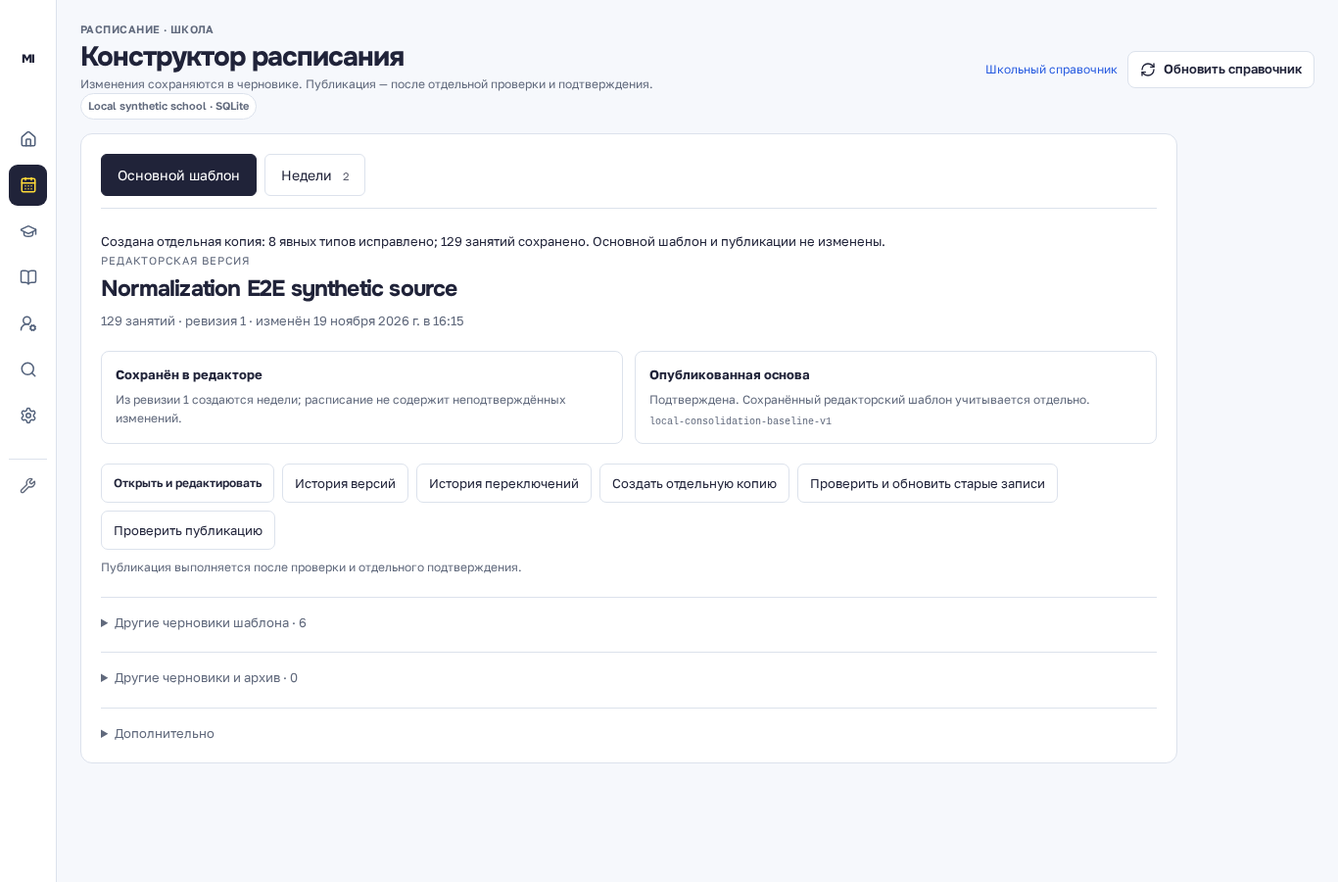
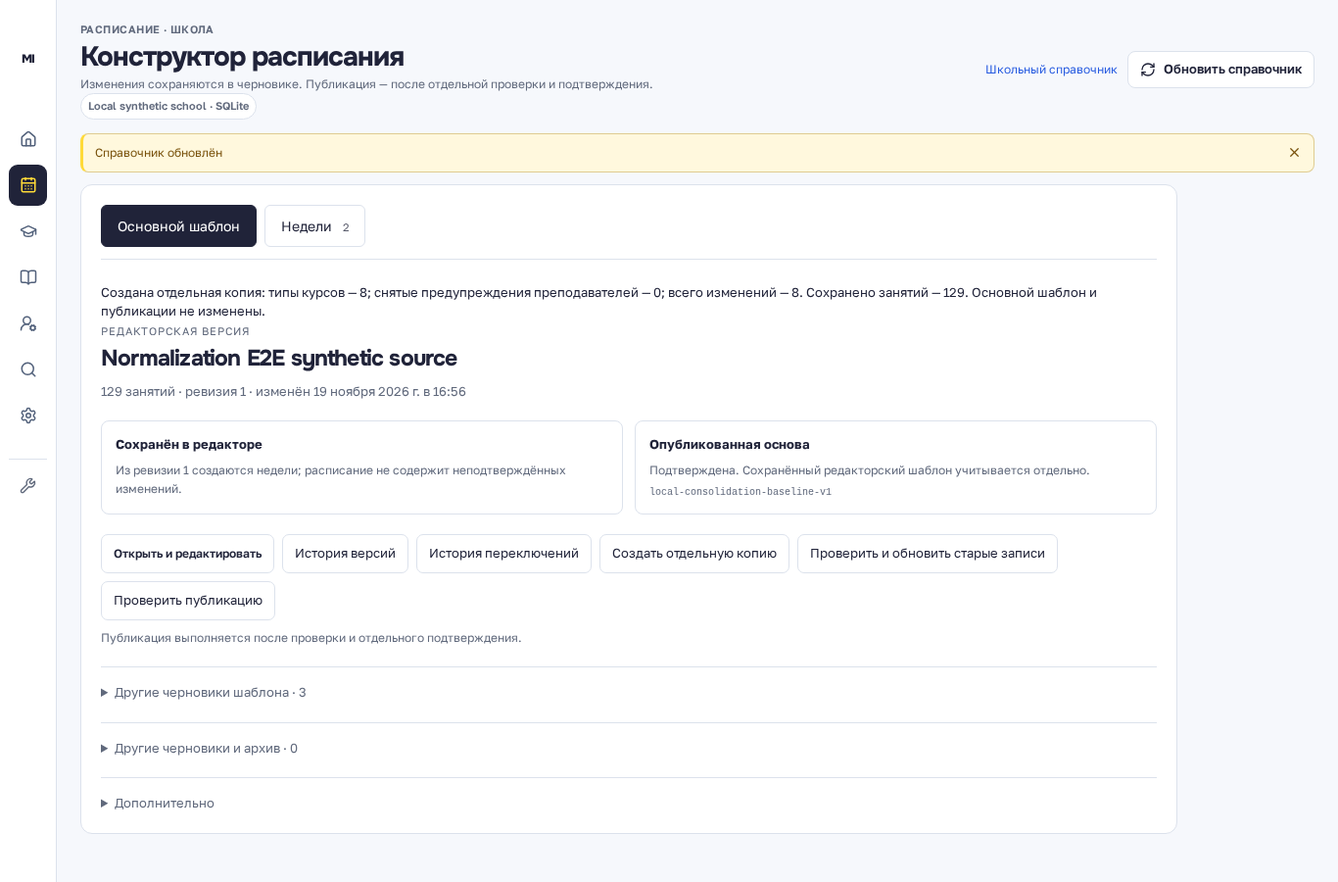
Preserve decision history in normalized copies

diff --git a/components/constructor-school-start.tsx b/components/constructor-school-start.tsx
@@ -26,7 +26,7 @@ type SelectionPreview = {
   baseline_recovery_required?: boolean;
   baseline_recovery?: { draft_id: string; revision: number; payload_hash: string; missing_revision: number; missing_payload_hash: string; contents: SelectionPreview['added']; problems: SelectionPreview['problems'] } | null;
 };
-type NormalizationPreview = { source_id: string; source_name: string; source_revision: number; source_hash: string; plan_hash: string; lesson_count: number; automatic_count: number; already_current_count: number; unchanged_count: number; unclassified_count: number; manual_count: number; real_conflict_count: number | null; retained_warning_count: number; retained_warnings: { reason: string; count: number; examples: { lesson_id: string; subject: string }[] }[]; changes: { lesson_id: string; field?: string; before: string; after: string; block_id?: string; reason: string }[]; manual: { lesson_id: string; reason: string }[]; notes: string[] };
+type NormalizationPreview = { source_id: string; source_name: string; source_revision: number; source_hash: string; plan_hash: string; lesson_count: number; automatic_count: number; activity_type_change_count: number; teacher_warning_clear_count: number; already_current_count: number; unchanged_count: number; unclassified_count: number; manual_count: number; real_conflict_count: number | null; retained_warning_count: number; retained_warnings: { reason: string; count: number; examples: { lesson_id: string; subject: string }[] }[]; changes: { lesson_id: string; field?: string; before: string; after: string; block_id?: string; reason: string }[]; manual: { lesson_id: string; reason: string }[]; notes: string[] };
 
 export function nearestMonday(today = new Date()) {
   const date = new Date(today.getFullYear(), today.getMonth(), today.getDate());
@@ -124,8 +124,8 @@ export function ConstructorSchoolStart({ api, drafts, index, hiddenIds, readOnly
     if (!window.confirm(`Создать отдельную копию из ${normalizationPreview.source_name}? Исходный шаблон, публикации и основной выбор останутся без изменений.`)) return;
     setNormalizationBusy(true); setNormalizationError('');
     try {
-      const copy = await api<{ id: string; changed_count: number; lesson_count: number }>(`/api/admin/schedule/experiments/school/${encodeURIComponent(normalizationPreview.source_id)}/normalization-copy`, { method: 'POST', body: JSON.stringify({ expected_revision: normalizationPreview.source_revision, expected_source_hash: normalizationPreview.source_hash, expected_plan_hash: normalizationPreview.plan_hash }) });
-      setNormalizationPreview(null); setMessage(`Создана отдельная копия: ${copy.changed_count} явных типов исправлено; ${copy.lesson_count} занятий сохранено. Основной шаблон и публикации не изменены.`);
+      const copy = await api<{ id: string; changed_count: number; changed_type_count: number; cleared_teacher_warning_count: number; lesson_count: number }>(`/api/admin/schedule/experiments/school/${encodeURIComponent(normalizationPreview.source_id)}/normalization-copy`, { method: 'POST', body: JSON.stringify({ expected_revision: normalizationPreview.source_revision, expected_source_hash: normalizationPreview.source_hash, expected_plan_hash: normalizationPreview.plan_hash }) });
+      setNormalizationPreview(null); setMessage(`Создана отдельная копия: типы курсов — ${copy.changed_type_count}; снятые предупреждения преподавателей — ${copy.cleared_teacher_warning_count}; всего изменений — ${copy.changed_count}. Сохранено занятий — ${copy.lesson_count}. Основной шаблон и публикации не изменены.`);
       window.dispatchEvent(new Event('school-directory-updated'));
     } catch (error) { setNormalizationError((error as Error).message); } finally { setNormalizationBusy(false); }
   };
@@ -244,6 +244,6 @@ export function ConstructorSchoolStart({ api, drafts, index, hiddenIds, readOnly
       onConfirm={() => void confirmTemplateSelection()}
       onApproveBaseline={() => void approveLegacyBaseline()}
     /> : null}
-    {normalizationPreview ? <div className="constructor-conflict-backdrop"><dialog open className="constructor-conflict-dialog" aria-labelledby="schedule-normalization-title"><header><div><small>Предварительный анализ · ревизия {normalizationPreview.source_revision}</small><h2 id="schedule-normalization-title">Проверить и обновить старые записи</h2></div><button aria-label="Закрыть анализ" onClick={() => setNormalizationPreview(null)}><X size={20} /></button></header><p>{normalizationPreview.lesson_count} исходных занятий. Безопасные преобразования: <strong>{normalizationPreview.automatic_count}</strong>; уже заданы: <strong>{normalizationPreview.already_current_count}</strong>; оставлены без изменения/классификации: <strong>{normalizationPreview.unclassified_count}</strong>; требуют отдельного решения: <strong>{normalizationPreview.manual_count}</strong>. Реальные конфликты этим анализом не пересчитывались.</p><p>Исходный шаблон, недельные копии, основной выбор и публикации не меняются. Создаётся отдельная копия без автоматической публикации.</p><h3>Подтверждённые изменения</h3>{normalizationPreview.changes.length ? normalizationPreview.changes.map((item, index) => <article className="constructor-history-lesson" key={`${item.lesson_id}:${index}`}><strong>Занятие {item.lesson_id}</strong>{item.field === 'teacher_assignment_warning' || item.field === 'teacher_identity_warning' ? <p>Было: «{item.before}» → станет: предупреждение снято после проверки {item.field === 'teacher_assignment_warning' ? 'преподавателя, группы и предмета' : 'активного преподавателя'}.</p> : <p>Было: тип не задан → станет: курс по выбору.</p>}<small>{item.reason}{item.block_id ? ` · общий блок ${item.block_id}` : ''}</small><button type="button" onClick={() => { setNormalizationPreview(null); onOpenLesson(normalizationPreview.source_id, item.lesson_id); }}>Открыть исходное занятие</button></article>) : <p>Автоматических изменений нет.</p>}<h3>Требуют решения администратора</h3>{normalizationPreview.manual.map(item => <article className="constructor-history-lesson" key={item.lesson_id}><strong>Занятие {item.lesson_id}</strong><p>{item.reason}</p><button type="button" onClick={() => { setNormalizationPreview(null); onOpenLesson(normalizationPreview.source_id, item.lesson_id); }}>Открыть исходное занятие</button></article>)}<details><summary>Сохранённые предупреждения · {normalizationPreview.retained_warning_count}</summary>{normalizationPreview.retained_warnings.map(warning => <article className="constructor-history-lesson" key={warning.reason}><strong>{warning.reason} · {warning.count}</strong>{warning.examples.map(example => <p key={example.lesson_id}>{example.subject} · <button type="button" onClick={() => { setNormalizationPreview(null); onOpenLesson(normalizationPreview.source_id, example.lesson_id); }}>Открыть занятие</button></p>)}</article>)}</details>{normalizationPreview.notes.map(note => <p className="constructor-muted" key={note}>{note}</p>)}{normalizationError ? <p role="alert">{normalizationError}</p> : null}<footer><button disabled={normalizationBusy} onClick={() => setNormalizationPreview(null)}>Отмена</button><button className="admin-button admin-button--primary" disabled={readOnly || normalizationBusy || !normalizationPreview.automatic_count} onClick={() => void applyNormalizationCopy()}>{normalizationBusy ? 'Создаём копию…' : 'Подтвердить и создать отдельную копию'}</button></footer></dialog></div> : null}
+    {normalizationPreview ? <div className="constructor-conflict-backdrop"><dialog open className="constructor-conflict-dialog" aria-labelledby="schedule-normalization-title"><header><div><small>Предварительный анализ · ревизия {normalizationPreview.source_revision}</small><h2 id="schedule-normalization-title">Проверить и обновить старые записи</h2></div><button aria-label="Закрыть анализ" onClick={() => setNormalizationPreview(null)}><X size={20} /></button></header><p>{normalizationPreview.lesson_count} исходных занятий. Безопасные преобразования: типы курсов — <strong>{normalizationPreview.activity_type_change_count}</strong>; снятие подтверждённых предупреждений преподавателей — <strong>{normalizationPreview.teacher_warning_clear_count}</strong>; всего операций — <strong>{normalizationPreview.automatic_count}</strong>. Уже заданы: <strong>{normalizationPreview.already_current_count}</strong>; оставлены без изменения/классификации: <strong>{normalizationPreview.unclassified_count}</strong>; требуют отдельного решения: <strong>{normalizationPreview.manual_count}</strong>. Реальные конфликты этим анализом не пересчитывались.</p><p>Исходный шаблон, недельные копии, основной выбор и публикации не меняются. Создаётся отдельная копия без автоматической публикации.</p><h3>Подтверждённые изменения</h3>{normalizationPreview.changes.length ? normalizationPreview.changes.map((item, index) => <article className="constructor-history-lesson" key={`${item.lesson_id}:${index}`}><strong>Занятие {item.lesson_id}</strong>{item.field === 'teacher_assignment_warning' || item.field === 'teacher_identity_warning' ? <p>Было: «{item.before}» → станет: предупреждение снято после проверки {item.field === 'teacher_assignment_warning' ? 'преподавателя, группы и предмета' : 'активного преподавателя'}.</p> : <p>Было: тип не задан → станет: курс по выбору.</p>}<small>{item.reason}{item.block_id ? ` · общий блок ${item.block_id}` : ''}</small><button type="button" onClick={() => { setNormalizationPreview(null); onOpenLesson(normalizationPreview.source_id, item.lesson_id); }}>Открыть исходное занятие</button></article>) : <p>Автоматических изменений нет.</p>}<h3>Требуют решения администратора</h3>{normalizationPreview.manual.map(item => <article className="constructor-history-lesson" key={item.lesson_id}><strong>Занятие {item.lesson_id}</strong><p>{item.reason}</p><button type="button" onClick={() => { setNormalizationPreview(null); onOpenLesson(normalizationPreview.source_id, item.lesson_id); }}>Открыть исходное занятие</button></article>)}<details><summary>Сохранённые предупреждения · {normalizationPreview.retained_warning_count}</summary>{normalizationPreview.retained_warnings.map(warning => <article className="constructor-history-lesson" key={warning.reason}><strong>{warning.reason} · {warning.count}</strong>{warning.examples.map(example => <p key={example.lesson_id}>{example.subject} · <button type="button" onClick={() => { setNormalizationPreview(null); onOpenLesson(normalizationPreview.source_id, example.lesson_id); }}>Открыть занятие</button></p>)}</article>)}</details>{normalizationPreview.notes.map(note => <p className="constructor-muted" key={note}>{note}</p>)}{normalizationError ? <p role="alert">{normalizationError}</p> : null}<footer><button disabled={normalizationBusy} onClick={() => setNormalizationPreview(null)}>Отмена</button><button className="admin-button admin-button--primary" disabled={readOnly || normalizationBusy || !normalizationPreview.automatic_count} onClick={() => void applyNormalizationCopy()}>{normalizationBusy ? 'Создаём копию…' : 'Подтвердить и создать отдельную копию'}</button></footer></dialog></div> : null}
   </section>;
 }

diff --git a/backend/tests/test_schedule_normalization.py b/backend/tests/test_schedule_normalization.py
@@ -1,5 +1,6 @@
 import unittest
 import tempfile
+from copy import deepcopy
 from pathlib import Path
 from types import SimpleNamespace
 from unittest.mock import patch
@@ -106,7 +107,7 @@ class ScheduleNormalizationTests(unittest.TestCase):
 
 
 class ScheduleNormalizationApiTests(unittest.TestCase):
-    def test_preview_apply_copy_keeps_source_and_rejects_stale_preview(self):
+    def test_normalized_copy_preserves_trusted_history_audiences_and_all_unplanned_fields(self):
         with tempfile.TemporaryDirectory() as directory:
             database = Database(Path(directory) / "normalization.db")
             database.initialize()
@@ -116,10 +117,49 @@ class ScheduleNormalizationApiTests(unittest.TestCase):
             challenge, _ = database.create_admin_login_challenge(actor["id"])
             token, _ = database.consume_admin_login_challenge(challenge)
             token = token[0] if isinstance(token, tuple) else token
-            payload = {"draft_kind": "school", "classes": [], "lessons": [
-                {"id": f"b29-{i}", "blockId": "source:B29:electives", "subject": f"Choice {i}"} for i in range(4)] + [
-                {"id": "digital", "electiveDirection": "digital", "subject": "digital"}]}
-            source = create_experiment(database, name="Synthetic source", source="import", payload=payload)
+            teacher = database.create_identity("teacher", "Evidence-backed Teacher")
+            group = database.create_group("7A", "class")
+            database.set_teacher_assignment(teacher["id"], group["id"], "История", True, actor["id"], base_class_name="7")
+            old_decision = [{"id": "decision-1", "actor_id": "admin-42", "confirmed_at": "2026-10-01T10:00:00Z",
+                             "reason": "Ранее подтверждено", "scope": "template"}]
+            snapshot = {"student_ids": ["student-1", "student-2"], "fingerprint": "audience-fingerprint",
+                        "resolved_at": "2026-10-02T10:00:00Z"}
+            lessons = []
+            for i in range(4):
+                lesson = {"id": f"b29-{i}", "blockId": "source:B29:electives", "subject": f"Choice {i}",
+                          "teacherId": f"teacher-{i}", "teacherIds": [f"teacher-{i}"],
+                          "classId": str(group["id"]), "classIds": [str(group["id"])],
+                          "groupIds": [str(group["id"])], "room": f"B-{i}",
+                          "audience_snapshot": deepcopy(snapshot), "resolution_history": deepcopy(old_decision),
+                          "saved_resolution": {"status": "accepted", "by": "admin-42"}}
+                if i:
+                    lesson["activityNameSnapshot"] = f"Choice {i}"
+                lessons.append(lesson)
+            lessons.extend([
+                {"id": "teacher-assignment-warning", "subject": "История", "teacherId": str(teacher["id"]),
+                 "teacherIds": [str(teacher["id"])], "classId": str(group["id"]), "classIds": [str(group["id"])],
+                 "groupIds": [str(group["id"])], "room": "H-1", "needsClarification": True,
+                 "clarificationReason": "Нет подтверждённого назначения преподавателя группе",
+                 "audience_snapshot": deepcopy(snapshot), "resolution_history": deepcopy(old_decision)},
+                {"id": "teacher-identity-warning", "subject": "Литература", "teacherId": str(teacher["id"]),
+                 "teacherIds": [str(teacher["id"])], "classId": str(group["id"]), "classIds": [str(group["id"])],
+                 "groupIds": [str(group["id"])], "room": "L-1", "needsClarification": True,
+                 "clarificationReason": "Не подтверждён преподаватель", "resolution_history": deepcopy(old_decision)},
+                {"id": "digital", "electiveDirection": "digital", "activityType": "elective", "subject": "digital",
+                 "teacherId": "digital-teacher", "room": "D-1", "audience_snapshot": deepcopy(snapshot),
+                 "resolution_history": deepcopy(old_decision)},
+            ])
+            payload = {"draft_kind": "school", "classes": [str(group["id"])], "lessons": lessons,
+                       "school_source": {"source_ref": "verified-template"}}
+            # Trusted source fixture represents an already reviewed school template.
+            source = create_experiment(database, name="Synthetic source", source="import", payload=payload,
+                                       _trusted_resolution_history=True)
+            week_payload = {"draft_kind": "school", "week_start": "2026-11-09", "classes": [str(group["id"])],
+                            "lessons": [{"id": "week-override", "subject": "История", "teacherId": "week-teacher",
+                                         "teacherIds": ["week-teacher"], "room": "W-1"}]}
+            week = create_experiment(database, name="Synthetic week", source="import", payload=week_payload,
+                                     _trusted_resolution_history=True)
+            original_week = deepcopy(get_experiment(database, week["id"])["payload"])
             app = FastAPI(); app.include_router(create_router(database)); client = TestClient(app)
             headers = {"X-Dev-Auth": f"browser:{token}", "X-School-Admin-Session": token}
             environment = {"MY_ISLAND_TEST_PROFILE": "consolidation", "MY_ISLAND_CONSOLIDATED_SCHEDULE": "1",
@@ -131,24 +171,70 @@ class ScheduleNormalizationApiTests(unittest.TestCase):
                 preview_response = client.post(f"/api/admin/schedule/experiments/school/{source['id']}/normalization-preview", headers=headers)
                 self.assertEqual(preview_response.status_code, 200, preview_response.text)
                 preview = preview_response.json()
-                self.assertEqual(preview["automatic_count"], 4)
+                self.assertEqual(preview["automatic_count"], 6)
+                self.assertEqual(preview["activity_type_change_count"], 4)
+                self.assertEqual(preview["teacher_warning_clear_count"], 2)
                 self.assertEqual(preview["manual_count"], 1)
                 body = {"expected_revision": preview["source_revision"], "expected_source_hash": preview["source_hash"], "expected_plan_hash": preview["plan_hash"]}
+                original = deepcopy(get_experiment(database, source["id"])["payload"])
                 changed = dict(source["payload"]); changed["reference_date"] = "2026-11-19"
                 save_experiment(database, source["id"], expected_revision=1, payload=changed)
                 stale = client.post(f"/api/admin/schedule/experiments/school/{source['id']}/normalization-copy", headers=headers, json=body)
                 self.assertEqual(stale.status_code, 409, stale.text)
                 current = get_experiment(database, source["id"])
-                current_preview = normalization_preview(current)
+                active_teachers, verified_assignments = verified_teacher_directory_evidence(database, current)
+                current_preview = normalization_preview(current, verified_active_teachers=active_teachers, verified_teacher_assignments=verified_assignments)
                 valid_body = {"expected_revision": current_preview["source_revision"], "expected_source_hash": current_preview["source_hash"], "expected_plan_hash": current_preview["plan_hash"]}
+                def publication_state():
+                    snapshot = {}
+                    with database.connection() as connection:
+                        for table in ("school_template_selection", "schedule_publication_heads", "schedule_constructor_publications"):
+                            exists = database.execute(connection, "SELECT 1 FROM sqlite_master WHERE type='table' AND name=?", (table,)).fetchone()
+                            snapshot[table] = ([tuple(row) for row in database.execute(connection, f"SELECT * FROM {table} ORDER BY 1").fetchall()]
+                                               if exists else None)
+                    return snapshot
+                publication_before = publication_state()
                 applied = client.post(f"/api/admin/schedule/experiments/school/{source['id']}/normalization-copy", headers=headers, json=valid_body)
                 self.assertEqual(applied.status_code, 200, applied.text)
+                self.assertEqual(publication_state(), publication_before)
                 copied = get_experiment(database, applied.json()["id"])
-                self.assertEqual(len(copied["payload"]["lessons"]), len(current["payload"]["lessons"]))
-                self.assertEqual(sum(x.get("activityType") == "elective" for x in copied["payload"]["lessons"]), 4)
-                self.assertEqual(get_experiment(database, source["id"])["payload"]["lessons"], current["payload"]["lessons"])
+                result = applied.json()
+                self.assertEqual(result["changed_count"], 6)
+                self.assertEqual(result["changed_type_count"], 4)
+                self.assertEqual(result["cleared_teacher_warning_count"], 2)
+                source_lessons = {row["id"]: row for row in original["lessons"]}
+                copied_lessons = {row["id"]: row for row in copied["payload"]["lessons"]}
+                self.assertEqual(set(copied_lessons), set(source_lessons))
+                plan = {row["lesson_id"]: row for row in current_preview["changes"]}
+                for lesson_id, before in source_lessons.items():
+                    expected = deepcopy(before)
+                    change = plan.get(lesson_id)
+                    if change and change["field"] == "activity_type":
+                        expected["activityType"] = "elective"
+                        if "activityNameSnapshot" in change.get("companion_fields", []):
+                            expected["activityNameSnapshot"] = str(expected.get("subject") or "").strip()
+                    elif change and change["field"] in {"teacher_assignment_warning", "teacher_identity_warning"}:
+                        expected.pop("needsClarification", None)
+                        expected.pop("clarificationReason", None)
+                        expected["normalization_resolution"] = {
+                            "code": "teacher_assignment_verified" if change["field"] == "teacher_assignment_warning" else "teacher_identity_verified",
+                            "source": "teacher_assignments" if change["field"] == "teacher_assignment_warning" else "identity_directory"}
+                    self.assertEqual(copied_lessons[lesson_id], expected, f"unexpected fields changed for {lesson_id}")
+                self.assertEqual(copied["payload"]["school_source"]["source_ref"], "verified-template")
+                self.assertEqual(copied["payload"]["school_source"]["normalization_copy"]["change_plan"], [
+                    {"lesson_id": row["lesson_id"], "fields": ([row["field"], *row.get("companion_fields", [])]
+                     if row["field"] == "activity_type" else ["needsClarification", "clarificationReason", "normalization_resolution"])}
+                    for row in current_preview["changes"]])
+                self.assertEqual(get_experiment(database, source["id"])["payload"]["lessons"], original["lessons"])
+                self.assertEqual(get_experiment(database, week["id"])["payload"], original_week)
                 self.assertFalse(applied.json()["is_primary_template"])
                 self.assertFalse(applied.json()["published"])
+                # The normalizer's private trusted copy is not an import API capability.
+                imported = client.post("/api/admin/schedule/experiments/school", headers=headers, json={
+                    "name": "Untrusted import", "source": "import", "payload": {"lessons": [
+                        {"id": "forged-history", "subject": "Not trusted", "resolution_history": old_decision}]}})
+                self.assertEqual(imported.status_code, 200, imported.text)
+                self.assertNotIn("resolution_history", imported.json()["payload"]["lessons"][0])
 
 
 if __name__ == "__main__":

diff --git a/backend/services/schedule_normalization.py b/backend/services/schedule_normalization.py
@@ -74,7 +74,9 @@ def normalization_preview(draft: Mapping[str, Any], *, verified_active_teachers:
             if row.get("electiveDirection") and not block_id:
                 manual.append({"lesson_id": str(row.get("id") or ""), "reason": "Элективное направление не связано с общим блоком; требуется групповое сопоставление"})
         elif not kind and strong_legacy_block:
-            changes.append({"lesson_id": str(row.get("id") or ""), "before": "(не задан)", "after": "elective",
+            changes.append({"lesson_id": str(row.get("id") or ""), "field": "activity_type",
+                            "before": "(не задан)", "after": "elective",
+                            "companion_fields": ["activityNameSnapshot"] if not row.get("activityNameSnapshot") else [],
                             "block_id": block_id, "reason": "Стабильный исходный ID общего блока electives; в блоке несколько направлений"})
         elif not kind and row.get("electiveDirection"):
             manual.append({"lesson_id": str(row.get("id") or ""), "reason": "Направление электива не связано с подтверждённым общим блоком"})
@@ -125,11 +127,15 @@ def normalization_preview(draft: Mapping[str, Any], *, verified_active_teachers:
     source_hash = payload_hash(payload)
     plan = {"changes": changes, "source_hash": source_hash, "source_revision": int(draft.get("revision") or 0),
             "source_id": str(draft.get("id") or "")}
+    type_change_count = sum(item.get("field") == "activity_type" for item in changes)
+    teacher_warning_clear_count = sum(item.get("field") in {"teacher_assignment_warning", "teacher_identity_warning"} for item in changes)
     return {
         "source_id": plan["source_id"], "source_name": str(draft.get("name") or ""),
         "source_revision": plan["source_revision"], "source_hash": source_hash,
         "plan_hash": payload_hash(plan), "lesson_count": len(lessons),
-        "automatic_count": len(changes), "already_current_count": already_current,
+        "automatic_count": len(changes), "activity_type_change_count": type_change_count,
+        "teacher_warning_clear_count": teacher_warning_clear_count,
+        "already_current_count": already_current,
         "unchanged_count": unchanged, "unclassified_count": unclassified,
         "manual_count": len(manual), "real_conflict_count": None,
         "changes": changes, "manual": manual,
@@ -143,10 +149,10 @@ def normalization_preview(draft: Mapping[str, Any], *, verified_active_teachers:
 
 def normalized_copy_payload(draft: Mapping[str, Any], preview: Mapping[str, Any]) -> dict[str, Any]:
     payload = copy.deepcopy(dict(draft.get("payload") or {}))
-    changes = {str(row["lesson_id"]) for row in preview.get("changes") or []}
+    changes = list(preview.get("changes") or [])
     for lesson in payload.get("lessons") or []:
         if isinstance(lesson, dict):
-            lesson_changes = [row for row in preview.get("changes") or [] if str(row.get("lesson_id") or "") == str(lesson.get("id") or "")]
+            lesson_changes = [row for row in changes if str(row.get("lesson_id") or "") == str(lesson.get("id") or "")]
             for change in lesson_changes:
                 if change.get("field") in {"teacher_assignment_warning", "teacher_identity_warning"}:
                     lesson.pop("needsClarification", None)
@@ -154,11 +160,20 @@ def normalized_copy_payload(draft: Mapping[str, Any], preview: Mapping[str, Any]
                     lesson["normalization_resolution"] = {
                         "code": "teacher_assignment_verified" if change.get("field") == "teacher_assignment_warning" else "teacher_identity_verified",
                         "source": "teacher_assignments" if change.get("field") == "teacher_assignment_warning" else "identity_directory"}
-                else:
+                elif change.get("field") == "activity_type":
                     lesson["activityType"] = "elective"
+                    if "activityNameSnapshot" in change.get("companion_fields", []) and str(lesson.get("subject") or "").strip():
+                        lesson["activityNameSnapshot"] = str(lesson["subject"]).strip()
     source = dict(payload.get("school_source") or {})
     source["normalization_copy"] = {"source_id": preview["source_id"],
         "source_revision": preview["source_revision"], "source_hash": preview["source_hash"],
-        "plan_hash": preview["plan_hash"], "changed_count": len(changes)}
+        "plan_hash": preview["plan_hash"], "changed_count": len(changes),
+        "activity_type_change_count": int(preview.get("activity_type_change_count") or 0),
+        "teacher_warning_clear_count": int(preview.get("teacher_warning_clear_count") or 0),
+        "change_plan": [{"lesson_id": str(row.get("lesson_id") or ""),
+                         "fields": ([row["field"], *row.get("companion_fields", [])]
+                                    if row.get("field") == "activity_type" else
+                                    ["needsClarification", "clarificationReason", "normalization_resolution"])}
+                        for row in changes]}
     payload["school_source"] = source
     return payload

diff --git a/backend/handlers/api.py b/backend/handlers/api.py
@@ -1667,10 +1667,14 @@ def create_router(database: Database) -> APIRouter:
                 raise HTTPException(status_code=422, detail="Нет подтверждённых автоматических преобразований для отдельной копии.")
             normalized = normalized_copy_payload(draft, preview)
             created = create_experiment(store, name=f"{draft['name']} · нормализованная копия", source="import",
-                payload=normalized, actor_user_id=principal["id"], _base_version_id=draft.get("base_version_id"))
+                payload=normalized, actor_user_id=principal["id"], _base_version_id=draft.get("base_version_id"),
+                _trusted_resolution_history=True)
             return {"id": created["id"], "revision": created["revision"], "name": created["name"],
                     "lesson_count": len(created["payload"].get("lessons") or []), "source_id": experiment_id,
-                    "changed_count": preview["automatic_count"], "is_primary_template": False, "published": False}
+                    "changed_count": preview["automatic_count"],
+                    "changed_type_count": preview["activity_type_change_count"],
+                    "cleared_teacher_warning_count": preview["teacher_warning_clear_count"],
+                    "is_primary_template": False, "published": False}
         except ExperimentNotFound as error:
             raise HTTPException(status_code=404, detail=str(error)) from error
         except ValueError as error:
